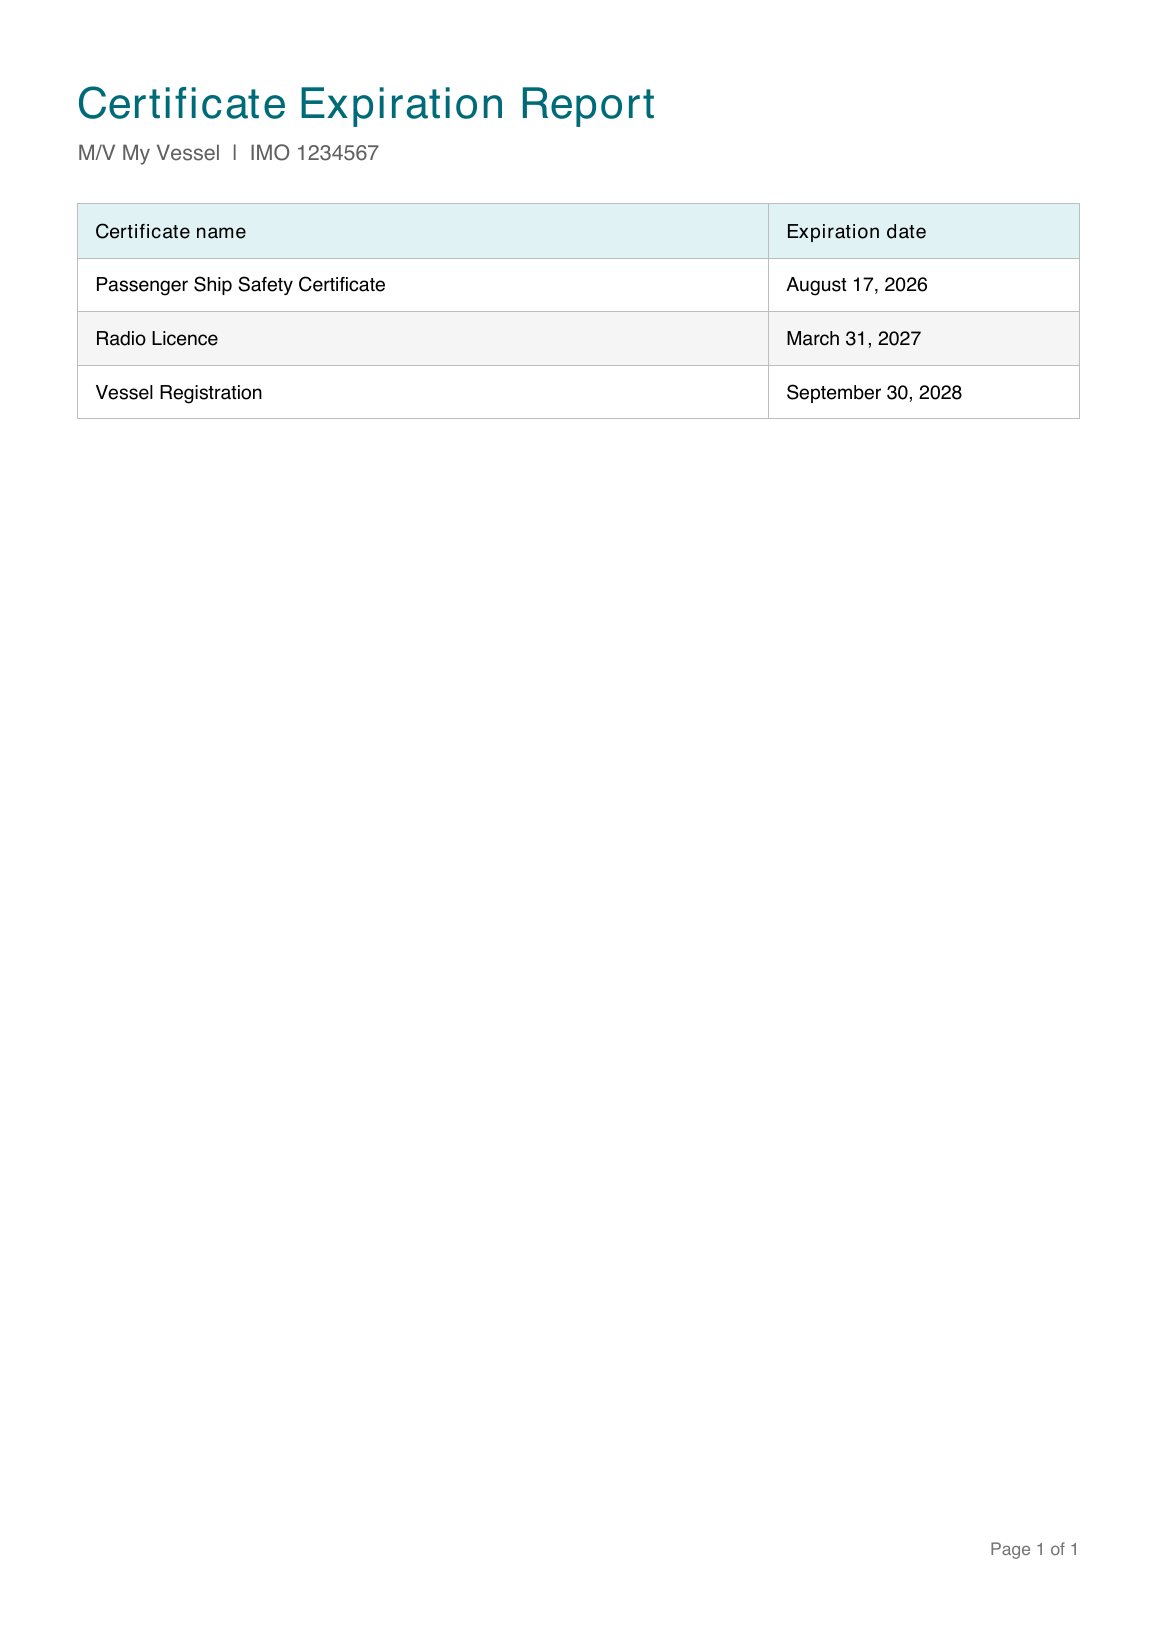
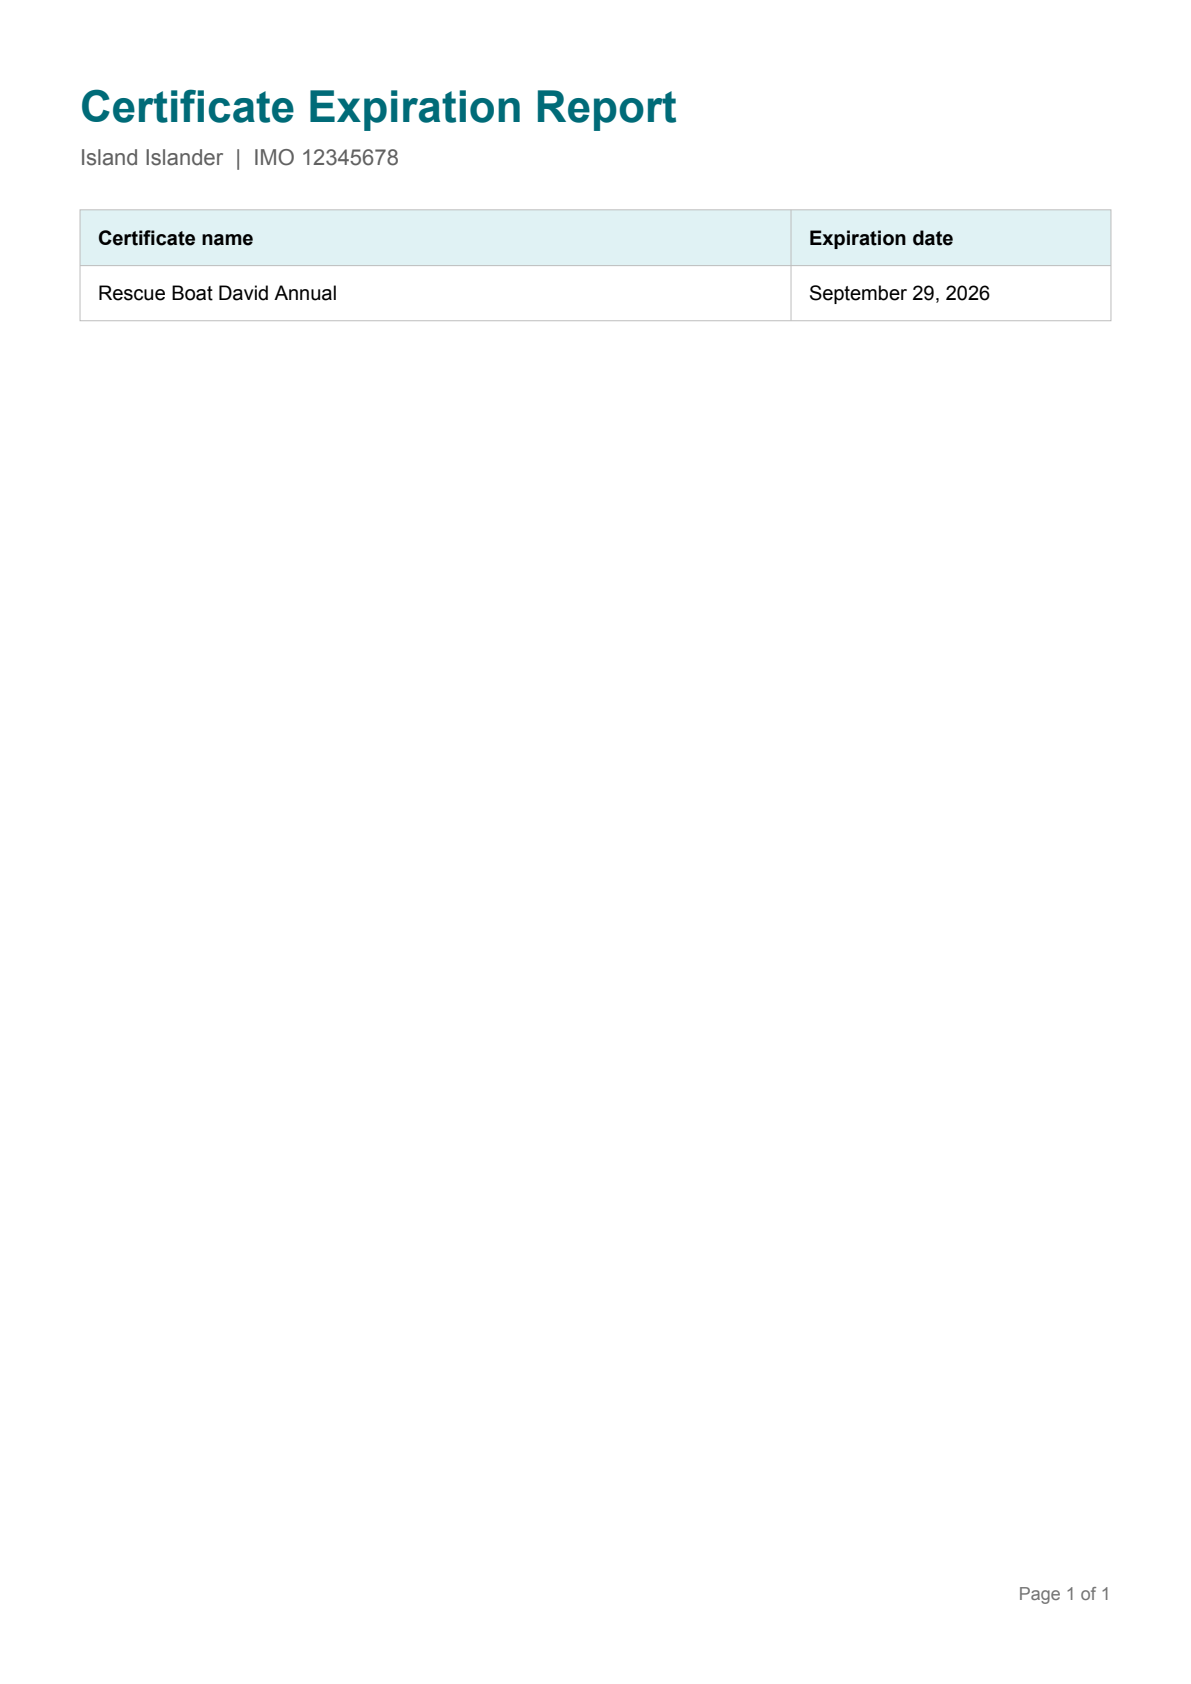
Show Certificate Tracker on iOS and Android with genuine exported report

diff --git a/app/certificate-tracker/page.tsx b/app/certificate-tracker/page.tsx
@@ -4,7 +4,7 @@ import ProductPage from "../components/product-page";
 export const metadata: Metadata = {
   title: "Marine Certificate Tracker | Lamifor Systems",
   description:
-    "Replace certificate spreadsheets and broken macros with a simple app that automates expiry tracking, reminders, records, and survey-ready service packs.",
+    "Available on iOS and Android. Automate certificate expiry tracking, reminders, records, and survey-ready service packs with Marine Certificate Tracker.",
 };
 
 export default function CertificateTrackerPage() {
@@ -12,14 +12,14 @@ export default function CertificateTrackerPage() {
     <ProductPage
       name="Marine Certificate Tracker"
       eyebrow="Vessel compliance organization"
-      status="iOS available · Android open beta"
+      status="Available on iOS & Android"
       icon="/certificate-tracker-icon.png"
       primaryActionHref="https://apps.apple.com/ca/app/marine-certificate-tracker/id6796863986"
       primaryActionLabel="Download on the App Store"
-      secondaryActionHref="https://play.google.com/apps/testing/com.lamiforsystems.marinecertificatetracker"
-      secondaryActionLabel="Join the Android open beta"
+      secondaryActionHref="https://play.google.com/store/apps/details?id=com.lamiforsystems.marinecertificatetracker"
+      secondaryActionLabel="Get it on Google Play"
       closingTitle="Put Marine Certificate Tracker to work."
-      closingText="Download on iOS today, or join the Android open beta to try Marine Certificate Tracker before its public Google Play release."
+      closingText="Available for iOS on the App Store and Android on Google Play. Download Marine Certificate Tracker and keep your vessel records ready for the next survey."
       summary="Stop managing vessel certificates through fragile spreadsheets, broken macros, and scattered files. Marine Certificate Tracker gives your team one simple workflow and automates the repetitive work around expiry dates, reminders, records, and survey preparation."
       idea="Certificate spreadsheets only work when every macro keeps working and every person enters every detail correctly. One missed field, broken formula, or outdated copy can leave critical information hidden. Marine Certificate Tracker replaces that fragile process with guided data entry, automatic tracking, and a clear record for every vessel."
       audience={[
@@ -42,14 +42,13 @@ export default function CertificateTrackerPage() {
       ]}
       reportPreview="/certificate-report-preview.png"
       demoDownloads={[
-        { title: "Fictional service report", text: "A clearly marked sample annual service report, included to demonstrate how supporting documents are stored and shared.", href: "/sample-rescue-boat-service-report.pdf", label: "View sample PDF" },
-        { title: "Structured service pack", text: "A sample ZIP showing the binder, certificate, and attached-report folder structure created for a vessel handover or survey.", href: "/sample-marine-service-pack.zip", label: "Download sample ZIP" },
+        { title: "App-exported certificate report", text: "A certificate expiration report exported directly from Marine Certificate Tracker, showing a vessel’s certificate name and expiry date.", href: "/marine-certificate-tracker-report.pdf", label: "Download report PDF" },
       ]}
       tutorialVideo={{
         src: "/marine-certificate-tracker-tutorial.mp4",
         poster: "/certificate-report-preview.png",
         title: "Marine Certificate Tracker: complete tutorial",
-        text: "Learn how to set up your company and vessels, add certificate records, manage reminders, and keep supporting documents organized in one secure workflow. The sample report and service pack above show the resulting handover files.",
+        text: "Learn how to set up your company and vessels, add certificate records, manage reminders, and keep supporting documents organized in one secure workflow. Download the app-exported certificate report above to see the report format.",
       }}
       videoGuides={[
         { title: "Set up a vessel", text: "Create the company, fleet, and vessel structure before adding certificate records." },

diff --git a/app/components/product-page.tsx b/app/components/product-page.tsx
@@ -97,7 +97,7 @@ export default function ProductPage(props: ProductPageProps) {
 
       {props.reportPreview && <section className="relative border-y border-white/10 bg-white/[0.025]"><div className="mx-auto grid max-w-7xl gap-12 px-6 py-24 lg:grid-cols-[0.7fr_1.3fr] lg:items-center lg:px-8"><div><p className="text-sm font-semibold uppercase tracking-[0.22em] text-[#d7aa51]">Survey ready</p><h2 className="mt-5 text-4xl font-semibold tracking-tight sm:text-5xl">Stop rebuilding reports by hand.</h2><p className="mt-6 text-lg leading-8 text-white/55">Enter certificate information once. Marine Certificate Tracker keeps it organized and turns the current vessel record into a clear report for renewals, service periods, and surveys.</p></div><div className="overflow-hidden rounded-2xl border border-white/10 bg-white p-3"><img src={props.reportPreview} alt="Preview of a vessel certificate report" className="h-auto w-full" /></div></div></section>}
 
-      {props.demoDownloads && <section className="relative mx-auto max-w-7xl px-6 py-24 lg:px-8"><p className="text-sm font-semibold uppercase tracking-[0.22em] text-[#d7aa51]">See the output</p><h2 className="mt-5 max-w-3xl text-4xl font-semibold tracking-tight sm:text-5xl">A report and service pack, ready to review.</h2><p className="mt-6 max-w-3xl text-lg leading-8 text-white/55">These fictional samples show the files Marine Certificate Tracker can prepare from an organized vessel record. They are for product demonstration only.</p><div className="mt-12 grid gap-6 md:grid-cols-2">{props.demoDownloads.map((item) => <article key={item.href} className="rounded-2xl border border-white/10 bg-white/[0.035] p-7"><h3 className="text-2xl font-semibold">{item.title}</h3><p className="mt-4 leading-7 text-white/55">{item.text}</p><a href={item.href} download className="mt-7 inline-flex rounded-md border border-[#d2a44a]/55 bg-[#d2a44a]/10 px-5 py-3 text-sm font-semibold text-[#edc875] transition hover:border-[#d2a44a] hover:bg-[#d2a44a]/15">{item.label}</a></article>)}</div></section>}
+      {props.demoDownloads && <section className="relative mx-auto max-w-7xl px-6 py-24 lg:px-8"><p className="text-sm font-semibold uppercase tracking-[0.22em] text-[#d7aa51]">See the output</p><h2 className="mt-5 max-w-3xl text-4xl font-semibold tracking-tight sm:text-5xl">An app-generated report, ready to review.</h2><p className="mt-6 max-w-3xl text-lg leading-8 text-white/55">This PDF was generated and exported by Marine Certificate Tracker. Download it to see the certificate expiration report produced by the app.</p><div className="mt-12 grid gap-6 md:grid-cols-2">{props.demoDownloads.map((item) => <article key={item.href} className="rounded-2xl border border-white/10 bg-white/[0.035] p-7"><h3 className="text-2xl font-semibold">{item.title}</h3><p className="mt-4 leading-7 text-white/55">{item.text}</p><a href={item.href} download className="mt-7 inline-flex rounded-md border border-[#d2a44a]/55 bg-[#d2a44a]/10 px-5 py-3 text-sm font-semibold text-[#edc875] transition hover:border-[#d2a44a] hover:bg-[#d2a44a]/15">{item.label}</a></article>)}</div></section>}
 
       <section className="relative mx-auto max-w-7xl px-6 py-24 lg:px-8">
         <p className="text-sm font-semibold uppercase tracking-[0.22em] text-[#d7aa51]">How-to videos</p>

diff --git a/app/page.tsx b/app/page.tsx
@@ -21,7 +21,7 @@ const products = [
   {
     id: "certificate-tracker",
     name: "Marine Certificate Tracker",
-    status: "iOS available · Android open beta",
+    status: "Available on iOS & Android",
     description:
       "Replace fragile spreadsheets, broken macros, and incomplete records with one simple workflow for marine certificate management.",
     features: [
